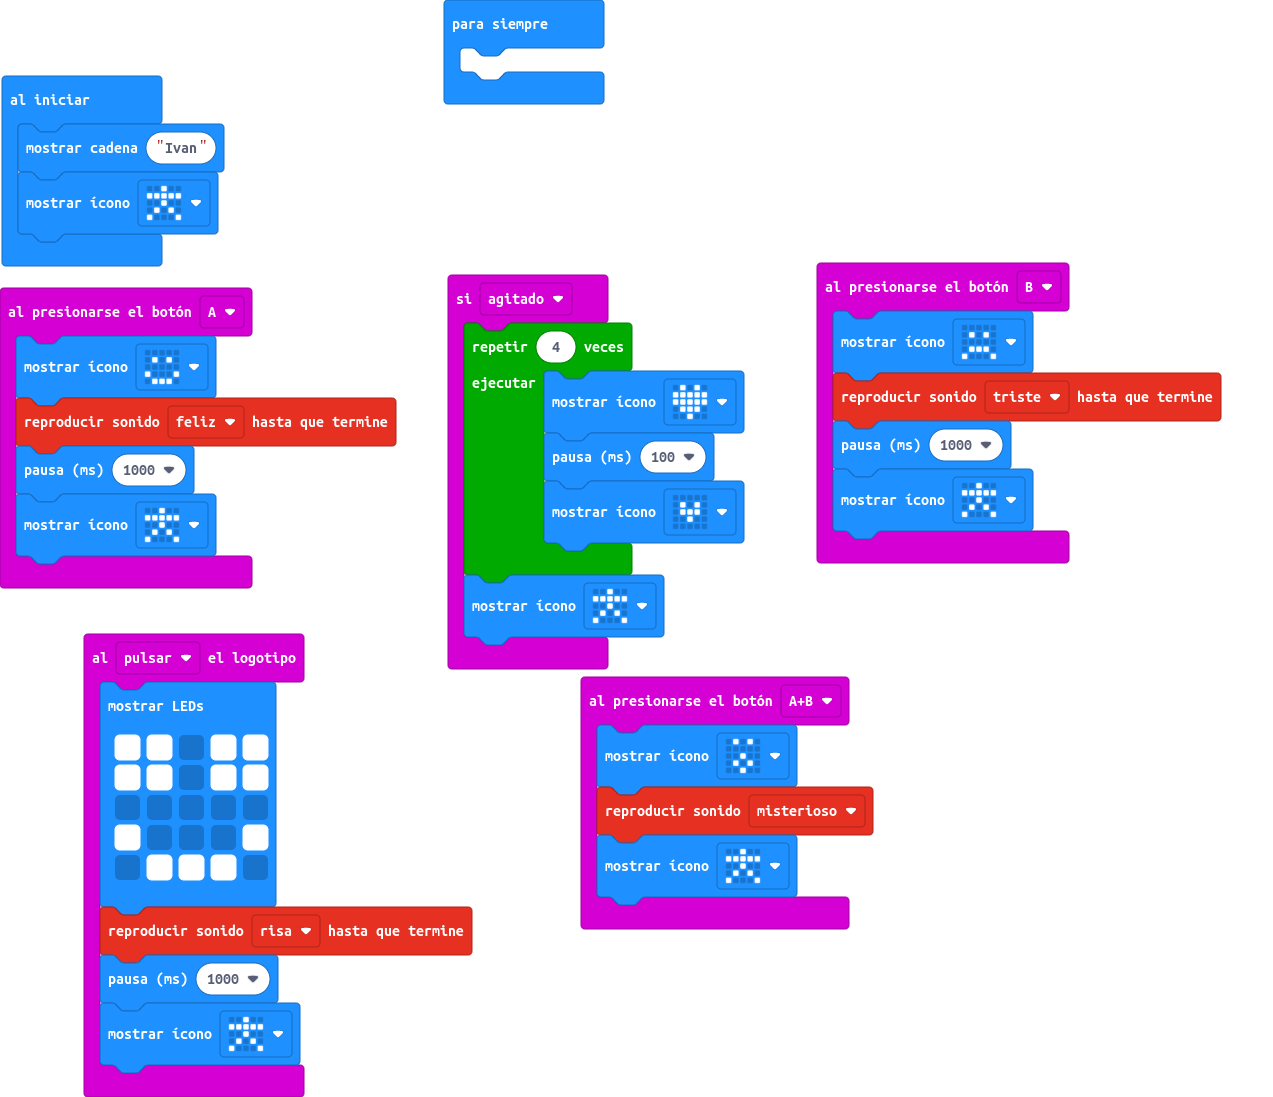
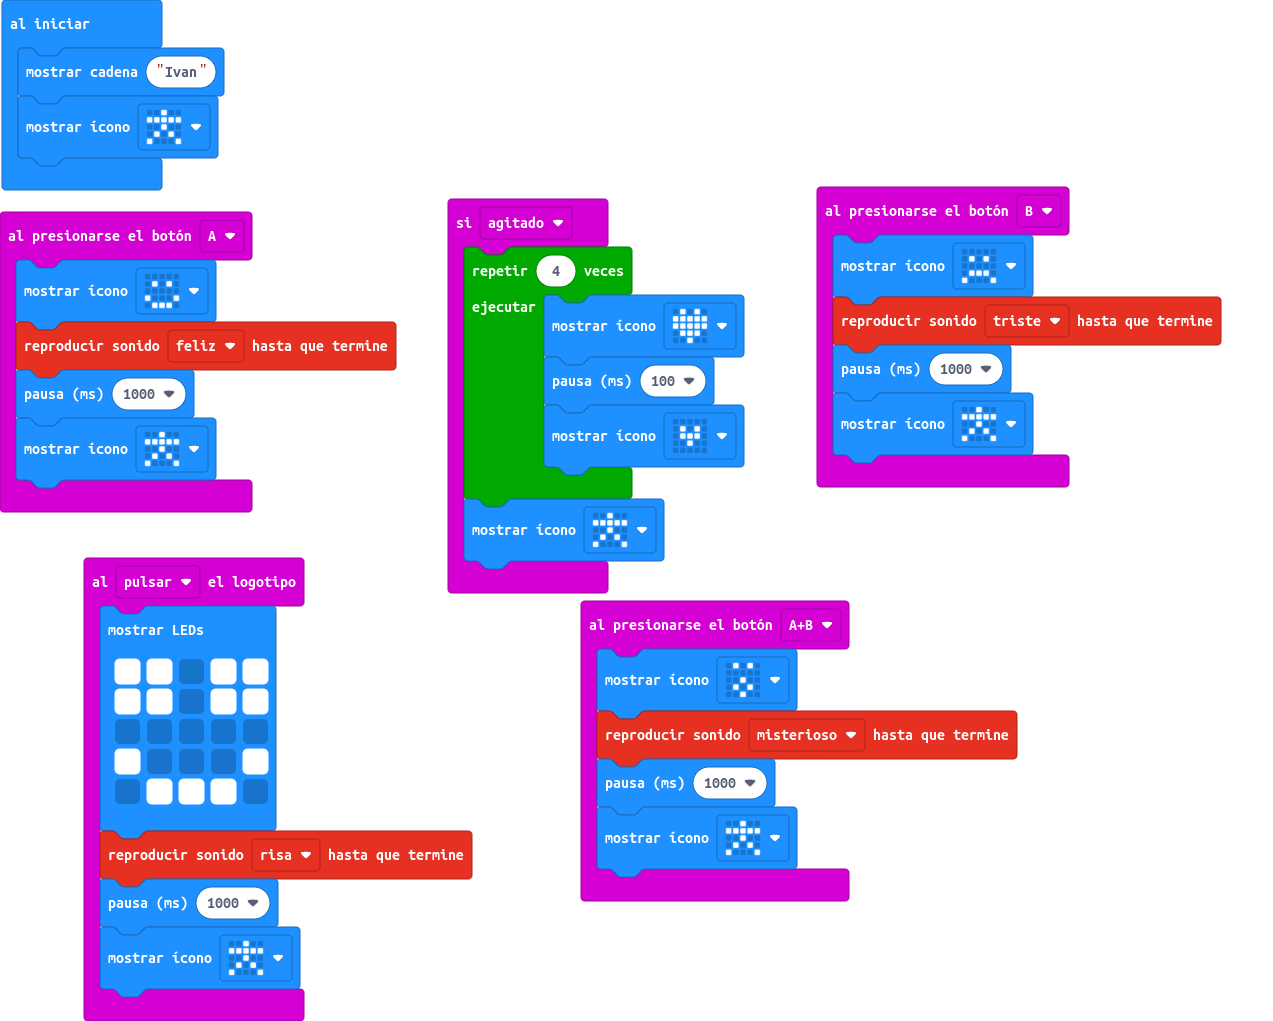
Actualizar main.blocks, main.ts

diff --git a/main.ts b/main.ts
@@ -26,7 +26,8 @@ input.onGesture(Gesture.Shake, function () {
 })
 input.onButtonPressed(Button.AB, function () {
     basic.showIcon(IconNames.Surprised)
-    soundExpression.mysterious.play()
+    soundExpression.mysterious.playUntilDone()
+    basic.pause(1000)
     basic.showIcon(IconNames.StickFigure)
 })
 input.onButtonPressed(Button.B, function () {
@@ -37,6 +38,3 @@ input.onButtonPressed(Button.B, function () {
 })
 basic.showString("Ivan")
 basic.showIcon(IconNames.StickFigure)
-basic.forever(function () {
-	
-})
